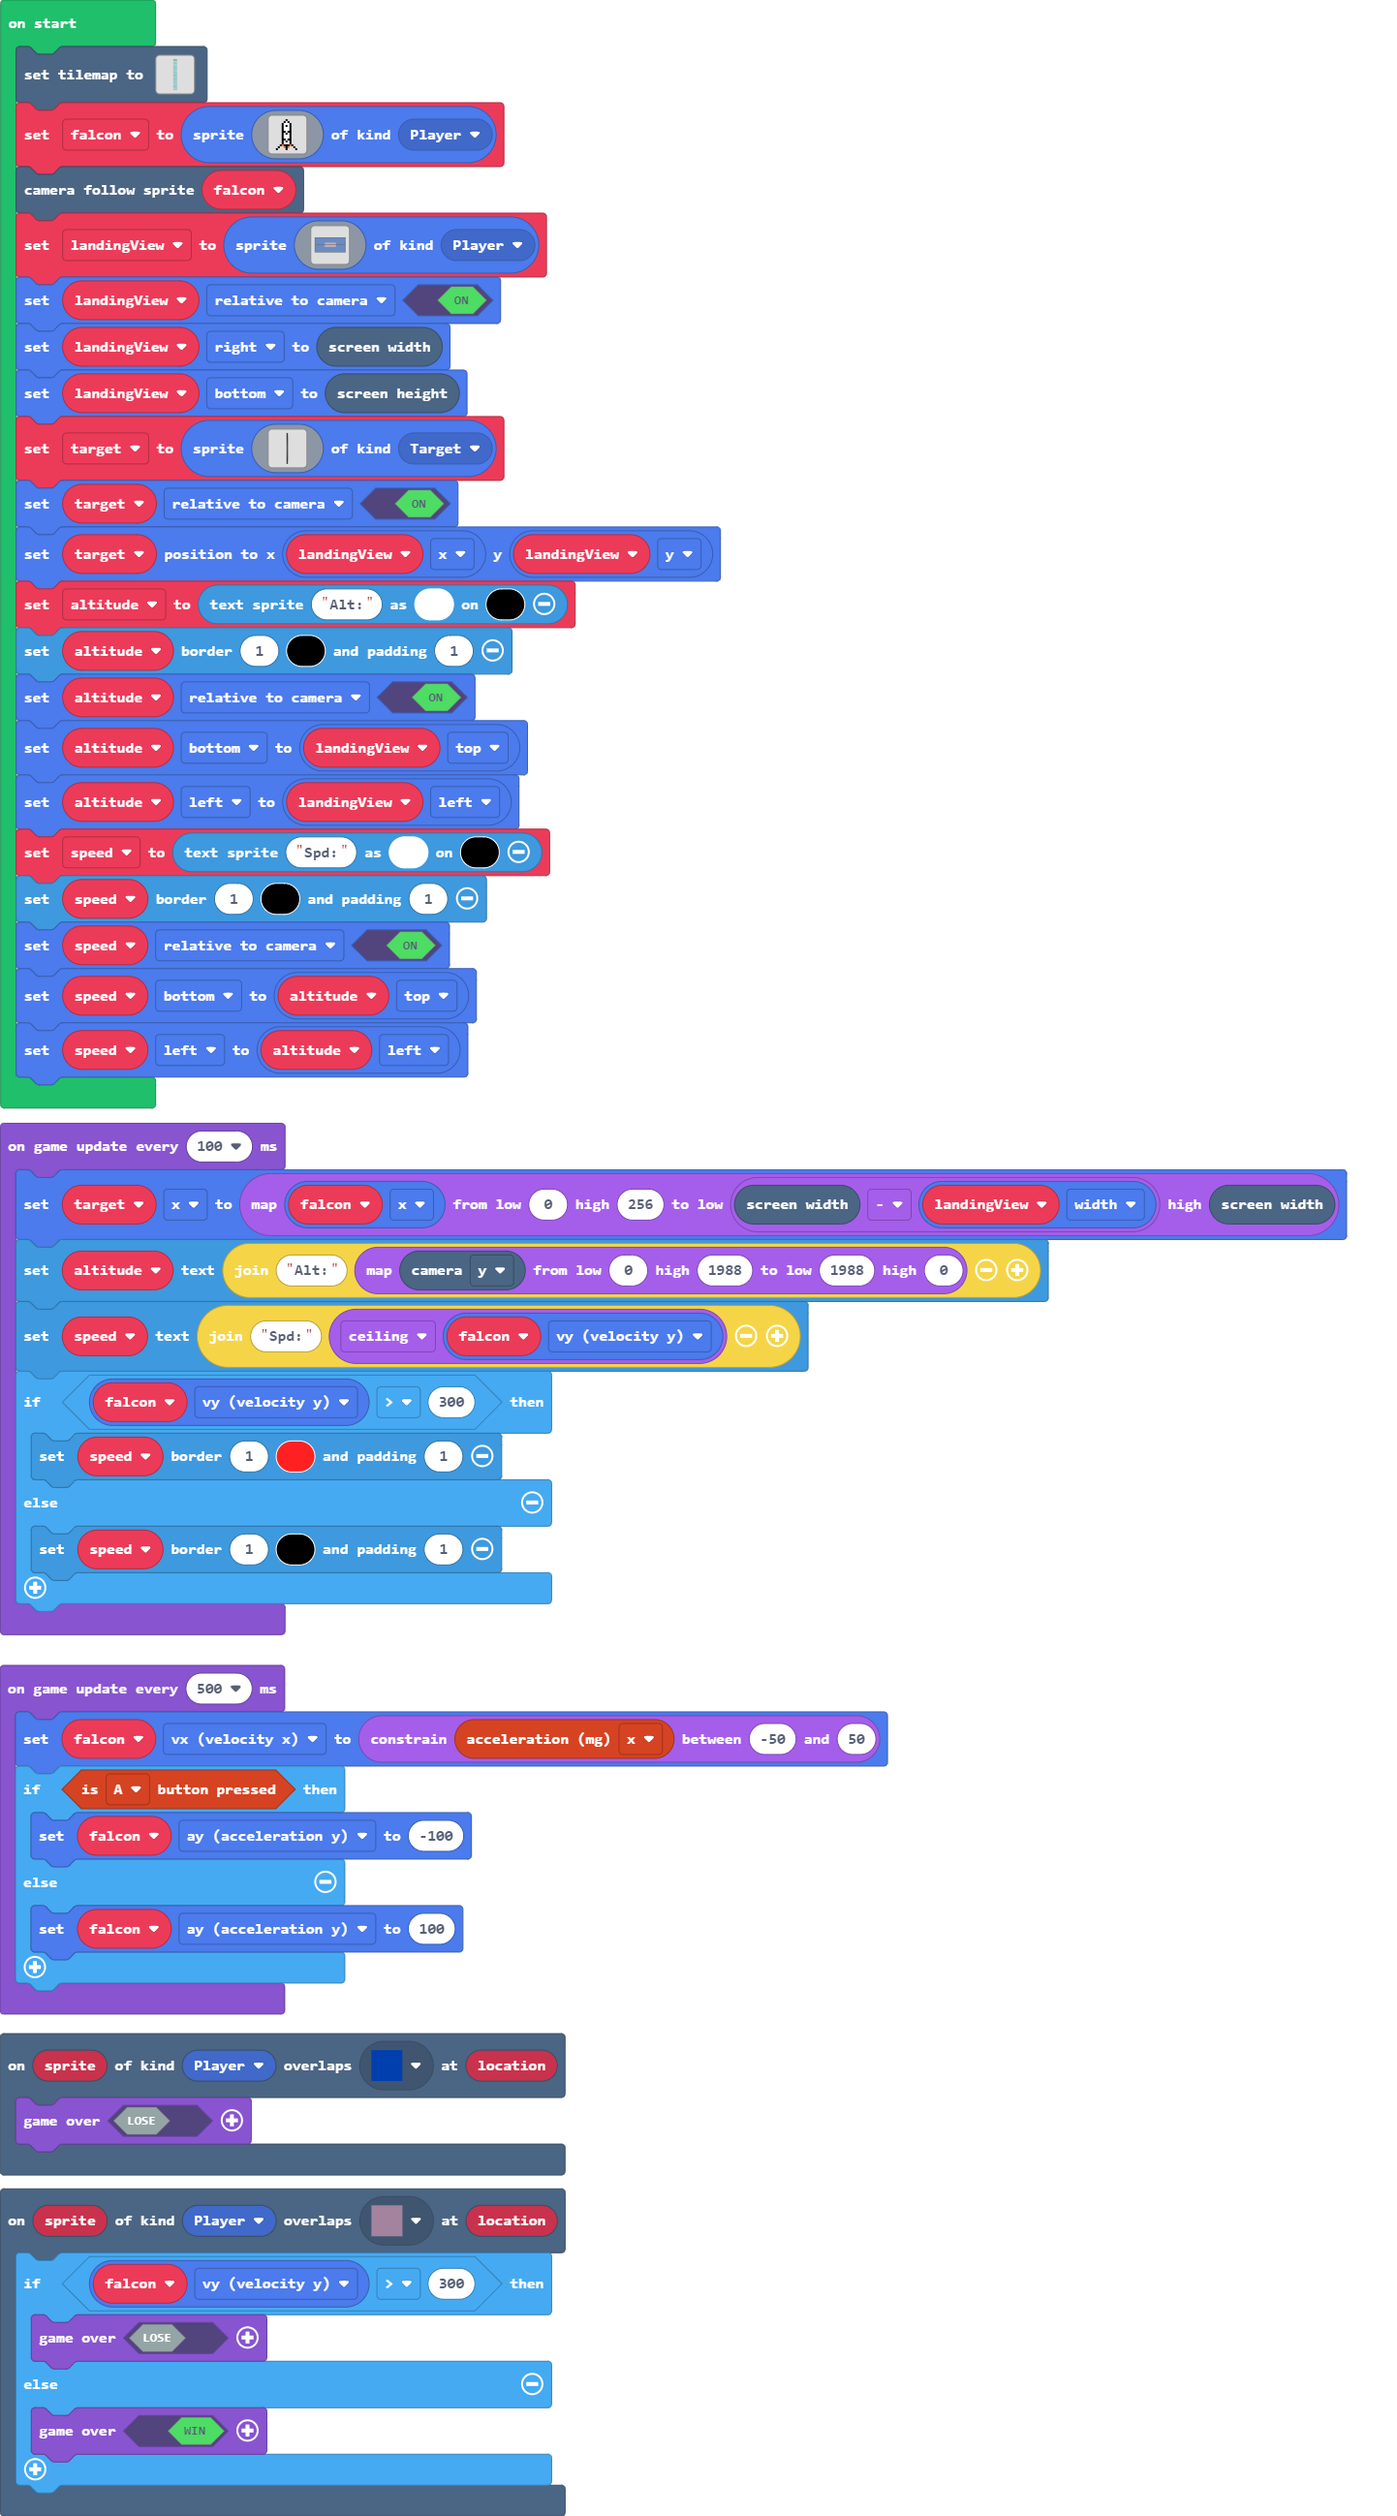
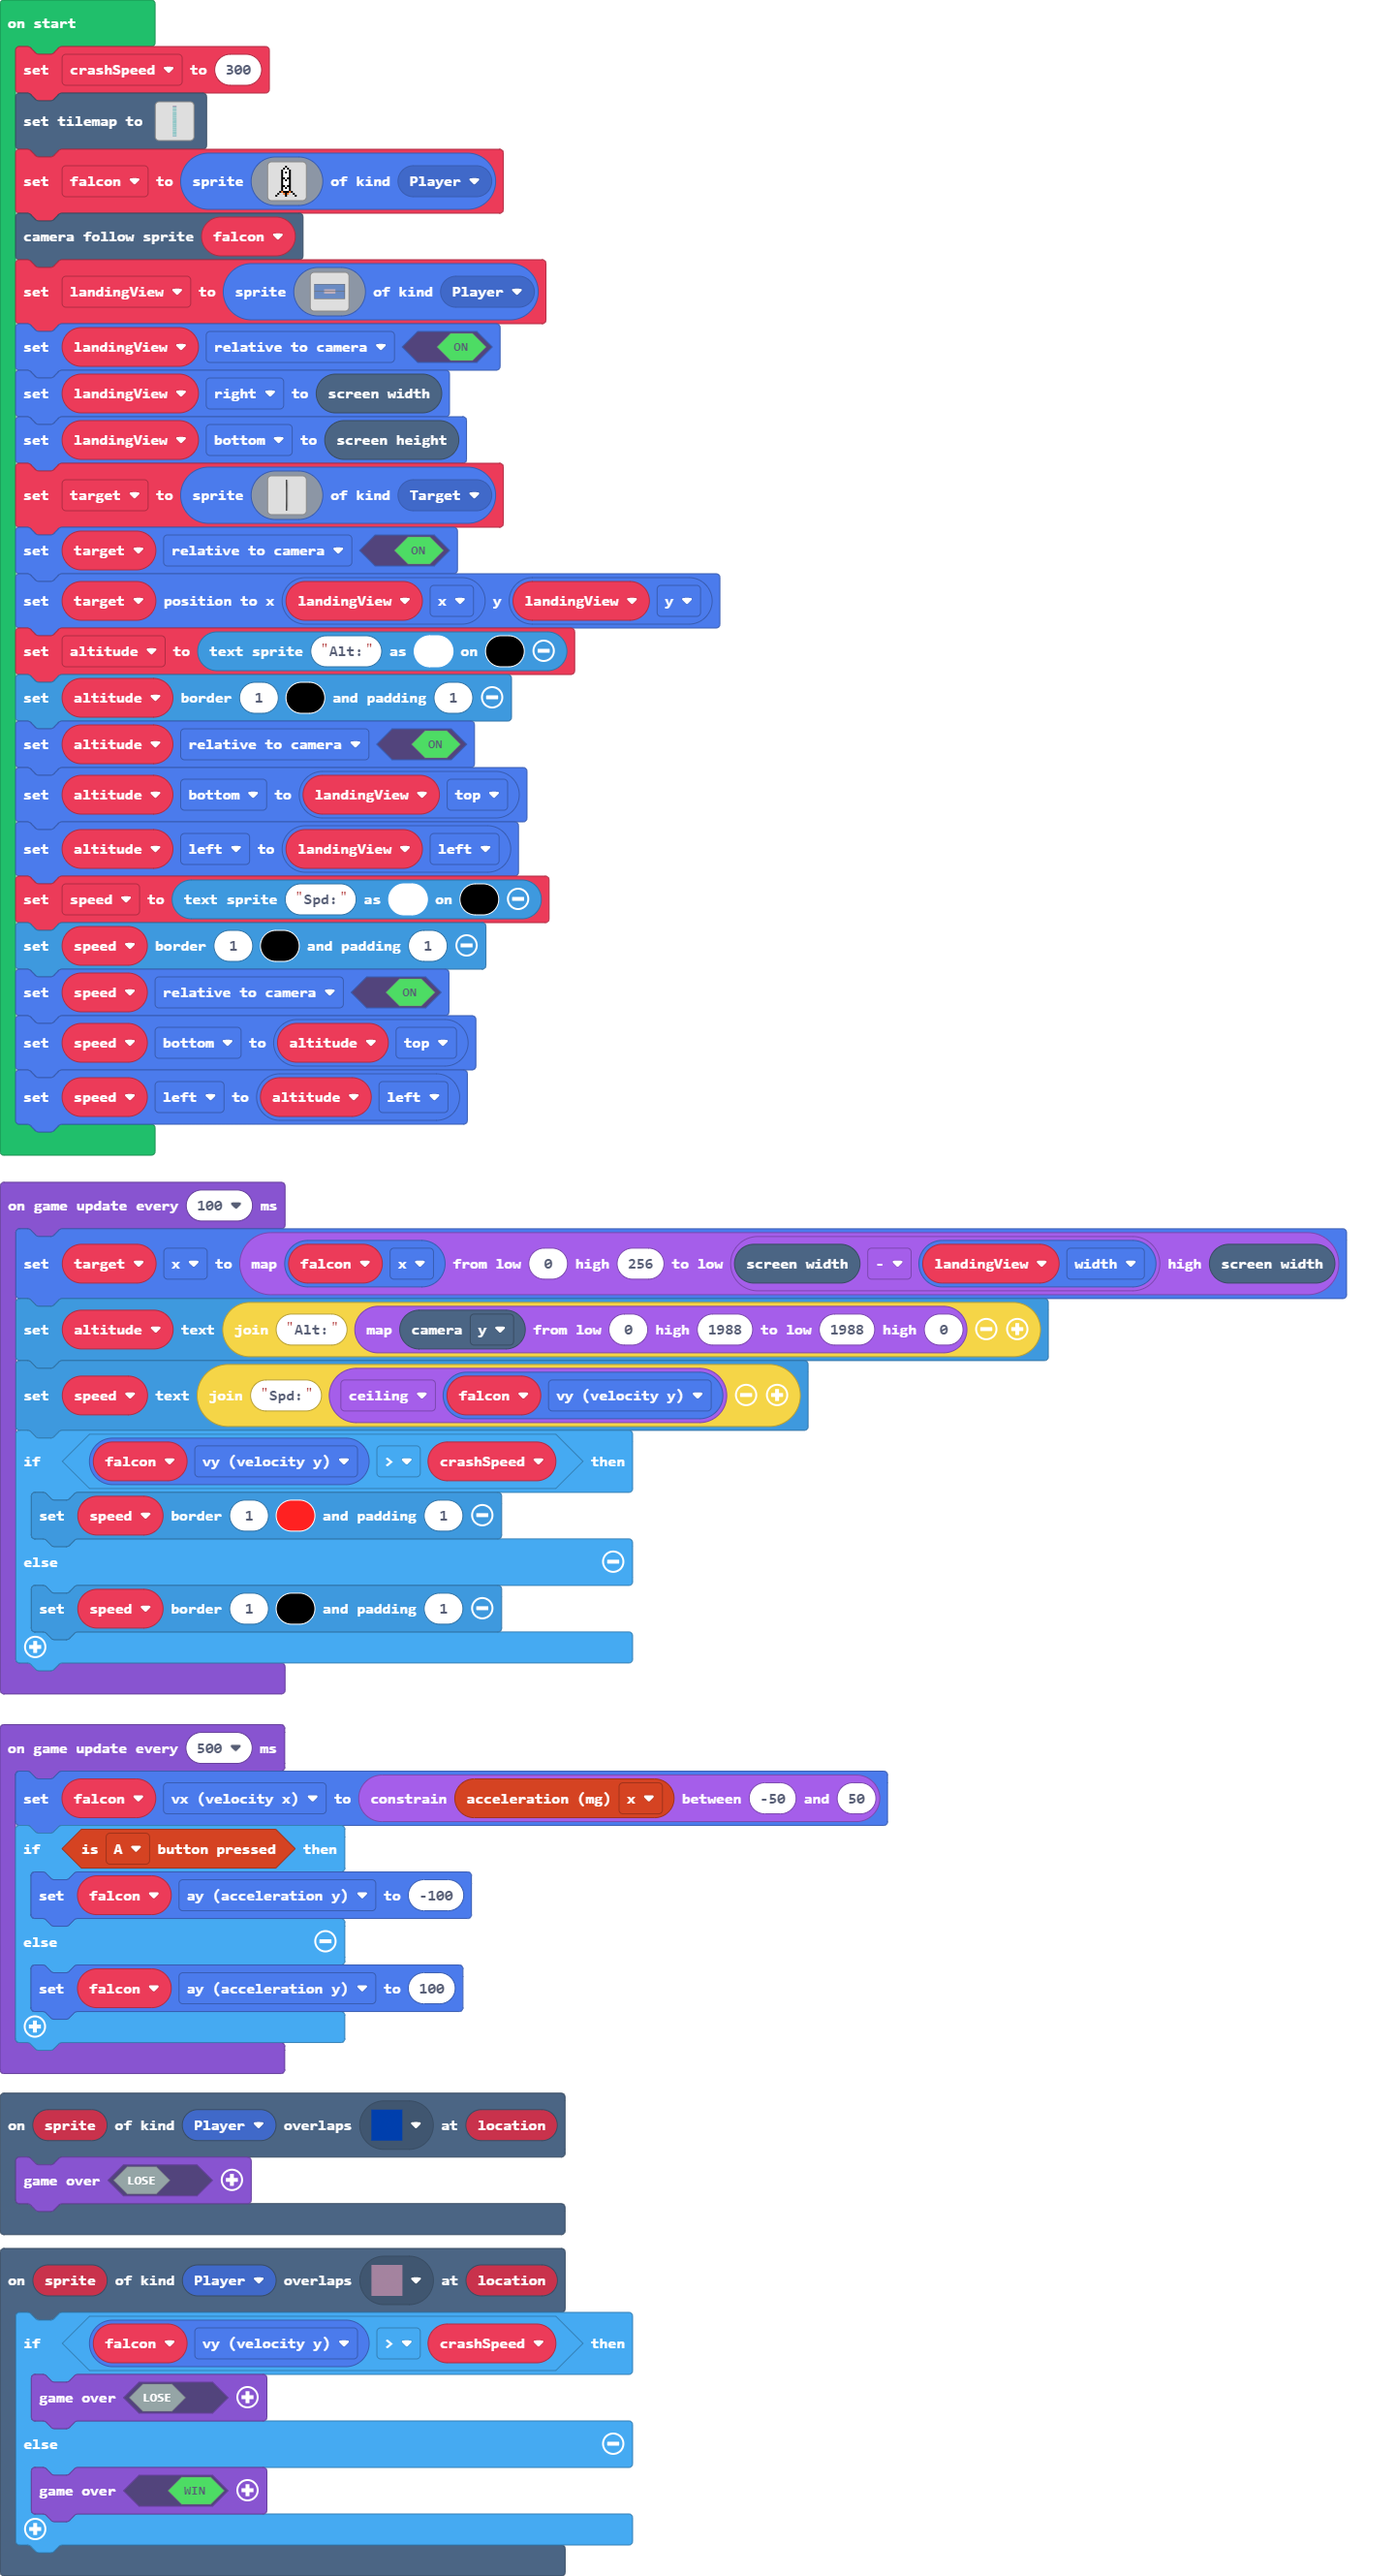
Add crash speed variable.

Changed region(s): [[0.0, 0.0, 0.9674, 0.9981]]

diff --git a/main.ts b/main.ts
@@ -2,7 +2,7 @@ namespace SpriteKind {
     export const Target = SpriteKind.create()
 }
 scene.onOverlapTile(SpriteKind.Player, myTiles.tile2, function (sprite, location) {
-    if (falcon.vy > 300) {
+    if (falcon.vy > crashSpeed) {
         game.over(false)
     } else {
         game.over(true)
@@ -12,6 +12,8 @@ scene.onOverlapTile(SpriteKind.Player, myTiles.tile4, function (sprite, location
     game.over(false)
 })
 let falcon: Sprite = null
+let crashSpeed = 0
+crashSpeed = 300
 tiles.setTilemap(tiles.createTilemap(hex`100080000101010101010101010101010101010101010101010101010101010101010101010101010101010101010101010101010101010101010101010101010101010101010101010101010101010101010101020202020202020202020202020202020202020202020202020202020202020202020202020202020202020202020202020202020202020202020202020202020303030303030303030303030303030302020202020202020202020202020202020202020202020202020202020202020202020202020202020202020202020202020202020202020202020202020202020202020202020202020202020202020303030303030303030303030303030302020202020202020202020202020202020202020202020202020202020202020202020202020202020202020202020202020202020202020202020202020202020202020202020202020202020202020303030303030303030303030303030302020202020202020202020202020202020202020202020202020202020202020202020202020202020202020202020202020202020202020202020202020202030303030303030303030303030303030202020202020202020202020202020202020202020202020202020202020202020202020202020202020202020202020202020202020202020202020202020202020202020202020202020202020202020303030303030303030303030303020202020202020202020202020202020202020202020202020202020202020202020202020202020202020202020202020202020202020202020202020202020202020202020202020202020202020202020202020202020202020202020202020202020202020202020202020202020202020202020202020202020202020202020203030303030303030303030303030202020202020202020202020202020202020202020202020202020202020202020202020202020202020202020202020202020202020202020202020202020202020202020202020202020202020202020202020202020202020202020202020202020202020202020202020202020202020303030303030303030303030303020202020202020202020202020202020202020202020202020202020202020202020202020202020202020202020202020202020202020202020202020202020202020202020202020202020202020202020202020202020202020202020202020203030303030303030303030303020202020202020202020202020202020202020202020202020202020202020202020202020202020202020202020202020202020202020202020202020202020202020202020202020202020202020202020202020202020202020202020202020303030303030202020202020202020202020202020202020202020202020202020202020202020202020202020202020202020202020202020202020202020202020202020202020202020202020202020202020202020202020202020202020202020202020202020202020202020202020202020202020202020202020202020202020202020202020202020202020202020202020202020202020202020202020303030303030303030303030202020202020202020202020202020202020202020202020202020202020202020202020202020202020202020202020202020202020202020202020202020202020202020202020202020202020202020202020202020202020202020202020202020303030303030303030303030202020202020202020202020202020202020202020202020202020202020202020202020202020202020202020202020202020202020202020202020202020202020202020202020202020202020202020202020202020202020202020202020202020202020202020202020202020202020202020202020202020202020202020202020203030303030303030303030303020202020202020202020202020202020202020202020202020202020202020202020202020202020202020202020202020202020202020202020202020202020202020202020202020202020202020202020202020202020202020202020202020202020202020202020202020202020202030303030303030303030303030202020202020202020202020202020202020202020202020202020202020202020202020202020202020202020202020202020202020202020202020202020202020202020202020202020202020202020202020202020202020202020202020202020202020202020202020202020202020202020202020202020202020202020202030303030303030303030303030302020202020202020202020202020202020202020202020202020202020202020202020202020202020202020202020202020202020202020202020202020202020202020202020202020202020202020202020202020202020202020202020202020202020202020202020202020202020202020202020202020202020202020202020202020202020202020202020202020203030303030303030303030302020202020202020202020202020202020202020202020202020202020202020202020202020202020202020202020202020202020202020202020202020202020202020202020202020202020202020202020203030303030303030303030302020202020202020202020202020202020202020202020202020202020202020202020202020202020202020202020202020202020202040404040404020202020205050505050505050505050505050505`, img`
     ................
     ................
@@ -254,7 +256,7 @@ game.onUpdateInterval(100, function () {
     target.x = Math.map(falcon.x, 0, 256, scene.screenWidth() - landingView.width, scene.screenWidth())
     altitude.setText("Alt:" + Math.map(scene.cameraProperty(CameraProperty.Y), 0, 1988, 1988, 0))
     speed.setText("Spd:" + Math.ceil(falcon.vy))
-    if (falcon.vy > 300) {
+    if (falcon.vy > crashSpeed) {
         speed.setBorder(1, 2, 1)
     } else {
         speed.setBorder(1, 15, 1)
